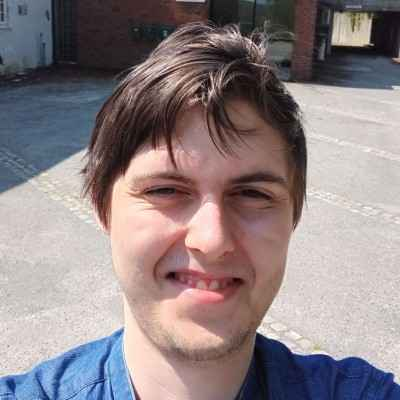
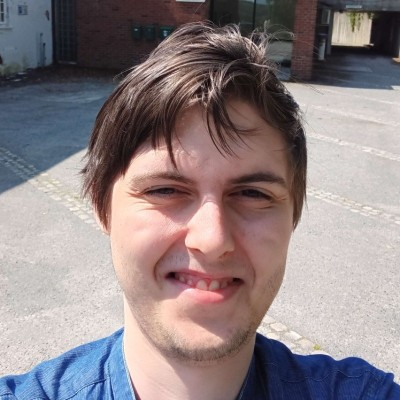
update 5
update 5

diff --git a/index.html b/index.html
@@ -20,7 +20,7 @@
         <div class="timeline_popup" id="container_tab_popup"> <!-- SET TO NONE OTHERWISE TOLD SO -->
 
             <!-- EXIT BUTTON -->
-            <button class="timeline_popup_exit" onclick="ClosePopup()">X</button>
+            <button class="timeline_popup_exit" onclick="ClosePopup(); OnClickSound()" onmouseenter="OnHoverSound()" onmousedown="OnHoldSound()">X</button>
 
             <!-- POPUP CONTENT AREA -->
 
@@ -34,7 +34,7 @@
                     <button class="timeline_popup_box"></button>
                 </div>
 
-                <!-- RIGHT SIDE: ORANGE TEXT BOX WITH SCROLLBAR -->
+                <!-- RIGHT SIDE: -->
                 <div class="timeline_popup_textbox">
                     <div class="timeline_popup_textbox_inner">
                         <div class="timeline_popup_text_content">
@@ -52,32 +52,216 @@
                 
                 <!-- LEFT SIDE: BLACK BOXES GRID -->
                 <div class="timeline_popup_boxes">
-                    <div class="timeline_popup_box_img" style="background-image: url(images/buttons/big/first_try_img_1.jpg); background-size: cover;"></div>
-                    <div class="timeline_popup_box_img" style="background-image: url(images/buttons/big/first_try_img_2.jpg); background-size: cover;"></div>
-                    <div class="timeline_popup_box_img" style="background-image: url(images/buttons/big/first_try_img_3.jpg); background-size: cover;"></div>
-                    <a href="https://steamcommunity.com/workshop/filedetails/?id=3513567869" target="_blank" class="timeline_popup_box_steam" style="background-image: url(images/buttons/big/steam_img.jpg); background-size: cover;"></a>
+                    <div class="timeline_popup_box_img" style="background-image: url(images/buttons/big/first_try_img_1.jpg); background-size: cover; background-position: center;"></div>
+                    <div class="timeline_popup_box_img" style="background-image: url(images/buttons/big/first_try_img_2.jpg); background-size: cover; background-position: center;"></div>
+                    <div class="timeline_popup_box_img" style="background-image: url(images/buttons/big/first_try_img_3.jpg); background-size: cover; background-position: center;"></div>
+                    <a onclick="OnClickSound()" onmouseenter="OnHoverSound()" onmousedown="OnHoldSound()" href="https://steamcommunity.com/workshop/filedetails/?id=3513567869" target="_blank" class="timeline_popup_box_steam" style="background-image: url(images/buttons/big/steam_img.jpg); background-size: cover; background-position: center;"></a>
                 </div>
 
-                <!-- RIGHT SIDE: ORANGE TEXT BOX WITH SCROLLBAR -->
+                <!-- RIGHT SIDE: -->
                 <div class="timeline_popup_textbox">
                     <div class="timeline_popup_textbox_inner">
                         <div class="timeline_popup_text_content">
                             <p class="timeline_popup_header">"THE FIRST TRIES"</p>
                             <div class="timeline_popup_line"></div>
+                            <p class="timeline_popup_header">2016 - 2018</p>
+
                             <p class="timeline_popup_subheader">The First Tries, we're the first batch of maps i created and released around 2018, at that time i was 15 years old.</p>
                             <p class="timeline_popup_subheader">Beginning around 2017 and ending late in 2018 during a time when i made these in my free time after school, i created 5 quite simple maps in the world builder for the Source Engine called "Hammer", that initially begun as curiouseness and shortly fell into being fun. This was about the first time when i realized how fun i found development to be, as throughout the time i made them, i found making them more enjoyable for whatever i was doing during that time at school</p>
                             <p class="timeline_popup_subheader">Unfortently however it would take me quite some time to realize that i should have put most of my work into building a career, so for must of that time i was only curious</p>
                             <p class="timeline_popup_subheader">Prior to creating these 5 maps, at which a time i saw nothing too the engine, i was making small levels with friends in Roblox based around things i played on that platform, but these we're merely early attempts</p>
+                            
                             <p class="timeline_popup_header">COMPETANSE</p>
                             <div class="timeline_popup_line"></div>
                             <ul class="timeline_popup_subheader">
                                 <li>SDK Hammer Engine</li>
                             </ul>
+
                         </div>
                     </div>
                 </div>
 
             </div>
+
+            <!-- FIRST PORTFOLIO SITE -->
+            <div class="timeline_popup_content" id="container_popup_2"> 
+                
+                <!-- LEFT SIDE: BLACK BOXES GRID -->
+                <div class="timeline_popup_boxes">
+                    <div class="timeline_popup_box_img" style="background-image: url(images/buttons/big/first_site_img_1.jpg); background-size: cover; background-position: center;"></div>
+                    <div class="timeline_popup_box_img" style="background-image: url(images/buttons/big/first_site_img_2.jpg); background-size: cover; background-position: center;"></div>
+                    <div class="timeline_popup_box_img" style="background-image: url(images/buttons/big/first_site_img_3.jpg); background-size: cover; background-position: center;"></div>
+                    <a onclick="OnClickSound()" onmouseenter="OnHoverSound()" onmousedown="OnHoldSound()" href="https://github.com/JonathanPR-Github/jonathanre_side_2023" target="_blank" class="timeline_popup_box_steam" style="background-image: url(images/buttons/big/github_img.jpg); background-size: cover; background-position: center;"></a>
+                </div>
+
+                <!-- RIGHT SIDE: -->
+                <div class="timeline_popup_textbox">
+                    <div class="timeline_popup_textbox_inner">
+                        <div class="timeline_popup_text_content">
+                            <p class="timeline_popup_header">"THE FIRST PORTFOLIO"</p>
+                            <div class="timeline_popup_line"></div>
+                            <p class="timeline_popup_header">2022 - 2023</p>
+
+                            <p class="timeline_popup_subheader">The First Portoflio i created, started around the time i coined the idea originally during my time at Folkhighschool</p>
+                            <p class="timeline_popup_subheader">However it would take me until i was at the NAV connected guidance company named "Funkweb" that i would take the initiative to build myself a portfolio site that would showcase the work i had done so far, which at the time wasn't particuarly much</p>
+                            <p class="timeline_popup_subheader">The site grapichs consisted of looking a lot like the map i was developing at the time, with a lot of yellow and stripes to match the look. While the site itself consisted of 5 tabs
+                                <ul class="timeline_popup_subheader">
+                                    <li>The Intro</li>
+                                    <li>Game Development</li>
+                                    <li>Blender</li>
+                                    <li>Video Editing</li>
+                                    <li>Grapichal Work</li>
+                                </ul>
+                            </p>
+                            <p class="timeline_popup_subheader">The site was designed to get as much info as possible for any potential people with interests, which in one sense however bloated the site too much. Behind the grapichs, there was a huge line of code that i spent over two weeks coding by hand back in 2023</p>
+                            <p class="timeline_popup_subheader">The Portfolio did help me several times to gain a job or close to one, one notable time being when i was in two interviews with Snowcastle Games</p>
+                            <p class="timeline_popup_subheader">Though after creating it, i never really updated it afterwards becouse i felt like i didn't have enough yet to showcase. It was only in 2026 when i then again made a new Portfolio</p>
+
+                            <p class="timeline_popup_header">COMPETANSE</p>
+                            <div class="timeline_popup_line"></div>
+                            <ul class="timeline_popup_subheader">
+                                <li>HTML</li>
+                                <li>CSS</li>
+                                <li>JS</li>
+                                <li>VSCode</li>
+                            </ul>
+                        
+                        </div>
+                    </div>
+                </div>
+
+            </div>
+
+            <!-- POPUP HOI4 JOHN COLLECTION -->
+            <div class="timeline_popup_content" id="container_popup_3"> 
+                
+                <!-- LEFT SIDE: BLACK BOXES GRID -->
+                <div class="timeline_popup_boxes">
+                    <div class="timeline_popup_box_img" style="background-image: url(images/buttons/big/hoi4_img_1.jpg); background-size: cover; background-position: center;"></div>
+                    <div class="timeline_popup_box_img" style="background-image: url(images/buttons/big/hoi4_img_2.jpg); background-size: cover; background-position: center;"></div>
+                    <div class="timeline_popup_box_img" style="background-image: url(images/buttons/big/hoi4_img_3.jpg); background-size: cover; background-position: center;"></div>
+                    <a onclick="OnClickSound()" onmouseenter="OnHoverSound()" onmousedown="OnHoldSound()" href="https://steamcommunity.com/workshop/filedetails/?id=3267219089" target="_blank" class="timeline_popup_box_steam" style="background-image: url(images/buttons/big/steam_img.jpg); background-size: cover; background-position: center;"></a>
+                </div>
+
+                <!-- RIGHT SIDE: -->
+                <div class="timeline_popup_textbox">
+                    <div class="timeline_popup_textbox_inner">
+                        <div class="timeline_popup_text_content">
+                            <p class="timeline_popup_header">"THE HOI4 JOHN COLLECTION"</p>
+                            <div class="timeline_popup_line"></div>
+                            <p class="timeline_popup_header">2024 - ONGOING</p>
+
+                            <p class="timeline_popup_subheader">The HOI4 JOHN Collection is a collection 31 Mods for the game "Heart's of Iron 4" that i developed within a span of a year</p>
+                            <p class="timeline_popup_subheader">Developed in the bracket language used by Paradox games, it initially started as a few grapichal mods but then gradually became more advanced mods adding functionalities to the game as time passed on</p>
+                            <p class="timeline_popup_subheader">The Most famous mod in the collection is the "Minimalistic Battle Plans" mod, that has over 1.000 Ratings, 50.000 subscribers and over 220,500 views on Steam! It really shows to tell that even the simplest things are somethimes the best</p>
+                            <p class="timeline_popup_subheader">Other notable mods in the collection is the "OWB: Special Projects" mod, adding technologies to the Total overhaul mod "Old World Blues", and "Expanded Helicopter Technologies" that adds expanded technolgies to Vanilla HOI4</p>
+                            <p class="timeline_popup_subheader">Throughout the mods development i learned a lot of coding with the Paradox Bracket language and further insight within game grapichs. The collection also eventually led me to become a developer within the Total Conversation mod "Red Dusk"</p>
+
+
+                            <p class="timeline_popup_header">COMPETANSE</p>
+                            <div class="timeline_popup_line"></div>
+                            <ul class="timeline_popup_subheader">
+                                <li>Paradox Bracket Language</li>
+                                <li>GIMP</li>
+                                <li>Inkscape</li>
+                            </ul>
+
+                        </div>
+                    </div>
+                </div>
+
+            </div>
+
+            <!-- POPUP DEATHRUN SAGA COLLECTION -->
+            <div class="timeline_popup_content" id="container_popup_4"> 
+                
+                <!-- LEFT SIDE: BLACK BOXES GRID -->
+                <div class="timeline_popup_boxes">
+                    <div class="timeline_popup_box_img"">
+                         <iframe
+                            src="https://www.youtube.com/embed/8Ks-l-wc5TM"
+                            title="YouTube video"
+                            allow="accelerometer; autoplay; clipboard-write; encrypted-media; gyroscope; picture-in-picture"
+                            allowfullscreen>
+                        </iframe>
+                    </div>
+                    <div class="timeline_popup_box_img"">
+                         <iframe
+                            src="https://www.youtube.com/embed/3duGIx3d2aE"
+                            title="YouTube video"
+                            allow="accelerometer; autoplay; clipboard-write; encrypted-media; gyroscope; picture-in-picture"
+                            allowfullscreen>
+                        </iframe>
+                    </div>
+                    <div class="timeline_popup_box_img"">
+                         <iframe
+                            src="https://www.youtube.com/embed/Q-RNo91Yfs4"
+                            title="YouTube video"
+                            allow="accelerometer; autoplay; clipboard-write; encrypted-media; gyroscope; picture-in-picture"
+                            allowfullscreen>
+                        </iframe>
+                    </div>
+                    <a onclick="OnClickSound()" onmouseenter="OnHoverSound()" onmousedown="OnHoldSound()" href="https://steamcommunity.com/workshop/filedetails/?id=3437419757" target="_blank" class="timeline_popup_box_steam" style="background-image: url(images/buttons/big/steam_img.jpg); background-size: cover; background-position: center;"></a>
+                </div>
+
+                <!-- RIGHT SIDE: -->
+                <div class="timeline_popup_textbox">
+                    <div class="timeline_popup_textbox_inner">
+                        <div class="timeline_popup_text_content">
+                            <p class="timeline_popup_header">"THE DEATHRUN SAGA COLLECTION"</p>
+                            <div class="timeline_popup_line"></div>
+                            <p class="timeline_popup_header">2018 - 2025 </p>
+
+                            <p class="timeline_popup_subheader">The Deathrun Saga Collection was a collection of 3 Deathrun maps for "Team Fortress 2" developed within the span of 2024 and 2025</p>
+                            <p class="timeline_popup_subheader">Deathrun is a community created game mode in which where one player controls traps in an obstacle course while the rest of the players attempt to survive and reach the end of the map. It emphasizes timing, player interaction, and asymmetrical gameplay design, with adventure designing heavily emphasised.</p>
+                            <p class="timeline_popup_subheader">Starting right after i finished my first attempts at making maps in 2018, i felt at the time like i wanted to try to create something that wasn't going to try to follow the offical modes, but that i wanted to expand to the custom modes made by the playerbase. It would still take me some time to go back to the Hammer as i was going back and forth with school, and with that i paused the map for a whole two years before contiuning on it</p>
+                            <p class="timeline_popup_subheader">But around 2020 i finally came around to finish what would become my first proper map with its alpha. After finishing it i contiuned to develop on it over the next 3 years, to note this was also around a time where i was simultaneously learning the engine, so it would natrually also take a bit of time for me to work things around</p>
+                            <p class="timeline_popup_subheader">During the maps development, i learnt the value of teamwork even as i was making it myself, when i was helped by various people internationally that was simiarly also making Deathrun maps, in which i could also lend help by teaching people things they didn't know. This was also when i learnt the value of playtesting and taking feedback, as whe playtested my map everytime it had a new addition to it, i would rescive valuable negative and positive feedback that would help me shape how i could improve my projects for the best</p>
+                            <p class="timeline_popup_subheader">Due to something i can only describe as a Dilemma, i had a constant worry that i had to perfect the map as much as possible, which is also why it took so long to develop. This is where i also developed a thought process a project should always be developed within a certain timeframe and never to be developed for unnecessary amounts of lenghts of time. In the end i had to set my foot down, and decide that the map had to be released, in which in 2024 Dustgrowl was finally released. From there map development would go much faster, as the next dr maps i would release would only take a few weeks</p>
+
+                            <p class="timeline_popup_header">DUSTGROWL</p>
+                            <div class="timeline_popup_line"></div>
+                            <p class="timeline_popup_header">2024</p>
+
+                            <p class="timeline_popup_subheader">Dustgrowl was designed very special, as all of the other deathrun maps i would create, they would have something unique that would make them stand out, and that included the first proper map i made</p>
+                            <p class="timeline_popup_subheader">It is made unique by that there is two whole course levels in the map, meaning that after playing 3 rounds, or winning the game it switches over the map to an entierely new course with completely different traps to change up the gameplay, and so back to the first course by the same gameplay loop. This map made it stand out between other deathrun maps, besides its obvious higher quality in vision and grapichs from other deathrun maps at the time</p>
+                            <p class="timeline_popup_subheader">Dustgrowl released to quite favorable reviews from the playtesters who had played it, as most of the maps playerbase came from those who tested the map. It was praised for both it looks and gameplay mechanics</p>
+
+                            <p class="timeline_popup_header">TIMBERCROVE</p>
+                            <div class="timeline_popup_line"></div>
+                            <p class="timeline_popup_header">2024</p>
+
+                            <p class="timeline_popup_subheader">Timercrove was designed to try to see if an open world for a deathrun map would work, with different builds building upon that idea gradually as i was making the map over the span of 2 months</p>
+                            <p class="timeline_popup_subheader">It is made unique by that the players spawn around a hut which is the main objective around a arena of obstacle courses that are explorable by completing each one of them seperatly, and then to beat each course, you must complete a puzzle by each end of the areas</p>
+                            <p class="timeline_popup_subheader">Timbercrove released to favorable reviews from the playtesters who had played it. However it was never truly added to any of the remaining servers at the time hosting the gamemode, so it was never truly praised</p>
+
+                            <p class="timeline_popup_header">SPIRALSTOVE</p>
+                            <div class="timeline_popup_line"></div>
+                            <p class="timeline_popup_header">2025</p>
+                            <p class="timeline_popup_subheader">Spiralstove was designed around a "pick your adventure" type of gameplay, with the map building upon allowing players to choose their own deathrun course, with the making of the map over the span of 2 months</p>
+                            <p class="timeline_popup_subheader">It is made unique by that a singular player at the start of the match gets to pick out a course of 3 portals infront of them, that eventually leads them to playing a course with completely unique themes to them</p>
+                            <p class="timeline_popup_subheader">Spiralstove released to favorable reviews from the playtesters who had played it and both the players playing it.</p>
+
+                            <p class="timeline_popup_header">COMPETANSE</p>
+                            <div class="timeline_popup_line"></div>
+                            <ul class="timeline_popup_subheader">
+                                <li>SDK Hammer Engine</li>
+                                <li>Vscript</li>
+                                <li>GIMP</li>
+                                <li>Inkscape</li>
+                                <li>VSCode</li>
+                                <li>DaVinci Resolve</li>
+                                <li>Discord</li>
+                            </ul>
+
+                        </div>
+                    </div>
+                </div>
+
+            </div>
+
+
+
 
 
 
@@ -91,7 +275,7 @@
     <div class="container_header_top">
         <div class="header_top">
             <button onclick="ShowTab_1(); OnClickSound()" onmouseenter="OnHoverSound()" onmousedown="OnHoldSound()"    class="header_top_button"> <p class="header_top_button_text">INTRO</p> </button>
-            <button onclick="ShowTab_2(); OnClickSound()" onmouseenter="OnHoverSound()"     class="header_top_button"> <p class="header_top_button_text">GAME DEVELOPMENT</p> </button>
+            <button onclick="ShowTab_2(); OnClickSound()" onmouseenter="OnHoverSound()" onmousedown="OnHoldSound()"    class="header_top_button"> <p class="header_top_button_text">GAME DEVELOPMENT</p> </button>
         </div>
     </div>
 
@@ -129,11 +313,12 @@
     <div class="container_about_me_pl">
         <div class="about_me_picture"></div>
         <div class="about_me_links">
-            <a href="https://no.linkedin.com/in/jonathan-erik-reppen-0915642a0/en?trk=people-guest_people_search-card" target="_blank" class="contact_button_1"     onclick="OnClickSound()" onmouseenter="OnHoverSound()"></a>
-            <a href="mailto: [email redacted]" target="_blank" class="contact_button_2"  onclick="OnClickSound()" onmouseenter="OnHoverSound()"></a>
-            <a href="https://github.com/JonathanPR-Github?tab=repositories" target="_blank" class="contact_button_3"    onclick="OnClickSound()" onmouseenter="OnHoverSound()"></a>
-            <a href="https://www.youtube.com/@jonathnpr5934/videos" target="_blank" class="contact_button_4"    onclick="OnClickSound()" onmouseenter="OnHoverSound()"></a>
+            <a href="https://no.linkedin.com/in/jonathan-erik-reppen-0915642a0/en?trk=people-guest_people_search-card" target="_blank" class="contact_button_1"     onclick="OnClickSound()" onmouseenter="OnHoverSound()" onmousedown="OnHoldSound()"></a>
+            <a href="mailto: [email redacted]" target="_blank" class="contact_button_2"  onclick="OnClickSound()" onmouseenter="OnHoverSound()" onmousedown="OnHoldSound()"></a>
+            <a href="https://github.com/JonathanPR-Github?tab=repositories" target="_blank" class="contact_button_3"    onclick="OnClickSound()" onmouseenter="OnHoverSound()" onmousedown="OnHoldSound()"></a>
+            <a href="https://www.youtube.com/@jonathnpr5934/videos" target="_blank" class="contact_button_4"    onclick="OnClickSound()" onmouseenter="OnHoverSound()" onmousedown="OnHoldSound()"></a>
         </div>
+
     </div>
 
     </div> 
@@ -180,9 +365,9 @@
             <div class="timeline-line-and-boxes">
                 <div class="timeline-line"></div>
                 <div class="container_timeline_box">
-                    <button onclick="OpenPopup(); popup_1();" class="timeline_box"; style="background-image: url(images/buttons/small/timeline_box_1.jpg); background-size: cover;"></button>
-                    <div class="timeline_box"></div>
-                    <div class="timeline_box"></div>
+                    <button onclick="OpenPopup(); popup_1(); OnClickSound()" onmouseenter="OnHoverSound()" onmousedown="OnHoldSound()" class="timeline_box"; style="background-image: url(images/buttons/small/timeline_box_1.jpg); background-size: cover;"></button>
+                    <button onclick="OpenPopup(); popup_3(); OnClickSound()" onmouseenter="OnHoverSound()" onmousedown="OnHoldSound()" class="timeline_box"; style="background-image: url(images/buttons/small/timeline_box_3.jpg); background-size: cover;"></button>
+                    <button onclick="OpenPopup(); popup_4(); OnClickSound()" onmouseenter="OnHoverSound()" onmousedown="OnHoldSound()" class="timeline_box"; style="background-image: url(images/buttons/small/timeline_box_4.jpg); background-size: cover; background-position: center;"></button>
                     <div class="timeline_box"></div>
                     <div class="timeline_box"></div>
                     <div class="timeline_box"></div>
@@ -214,7 +399,7 @@
                 <div class="timeline-line"></div>
 
                 <div class="container_timeline_box">
-                    <div class="timeline_box"></div>
+                    <button onclick="OpenPopup(); popup_2(); OnClickSound()" onmouseenter="OnHoverSound()" onmousedown="OnHoldSound()" class="timeline_box"; style="background-image: url(images/buttons/small/timeline_box_2.jpg); background-size: cover;"></button>
              
                 </div>
             </div>

diff --git a/java.js b/java.js
@@ -20,10 +20,30 @@ function ClosePopup() {   // NOTAT: Leg til alle videre popup specific meldinger
 
   // Timeline functions for Popup
   document.getElementById('container_popup_1').style.display = 'none';
+  document.getElementById('container_popup_2').style.display = 'none';
+  document.getElementById('container_popup_3').style.display = 'none';
+  document.getElementById('container_popup_4').style.display = 'none';
+
+  // Stop & reset all YouTube videos inside the popup
+  const youtubeIframes = document.querySelectorAll('#container_tab_popup iframe[src*="youtube.com"], #container_tab_popup iframe[src*="youtu.be"]');
+  youtubeIframes.forEach(iframe => {
+    const src = iframe.src;
+    iframe.src = '';      // unload the player
+    iframe.src = src;     // reload it in a paused/reset state
+  });
 }
 
 function popup_1() {
   document.getElementById('container_popup_1').style.display = 'flex';
+}
+function popup_2() {
+  document.getElementById('container_popup_2').style.display = 'flex';
+}
+function popup_3() {
+  document.getElementById('container_popup_3').style.display = 'flex';
+}
+function popup_4() {
+  document.getElementById('container_popup_4').style.display = 'flex';
 }
 
 /// Button Sounds

diff --git a/visual.css b/visual.css
@@ -163,6 +163,7 @@ body {
     background-image: url(images/profile_picture.jpg);
     background-size: cover;
     box-shadow: black 0vw 0vw 5vw;
+    background-position: center;
 }
 
 .about_me_links {
@@ -462,7 +463,10 @@ body.popup_active .container_header_top {
     gap: 3%;
 }
 
-#container_popup_1 {
+#container_popup_1,
+#container_popup_2,
+#container_popup_3,
+#container_popup_4 {
     display: none;
 }
 
@@ -512,11 +516,20 @@ body.popup_active .container_header_top {
 }
 
 .timeline_popup_box_img {
+    position: relative;
     width: 48%;
     height: 45%;
     background-color: wheat;
 
     border: 5px solid black ;
+}
+
+.timeline_popup_box_img iframe {
+    width: 100%;
+    height: 100%;
+    border: 0;
+    position: absolute;
+    inset: 0;
 }
 
 /* POPUP RIGHT SIDE: ORANGE TEXT BOX */
@@ -568,7 +581,7 @@ body.popup_active .container_header_top {
 
 .timeline_popup_header {
     color: wheat;
-    font-size: 2vw;
+    font-size: 1.6vw;
     font-weight: 900;
     font-family: Impact, 'Arial Black', sans-serif;
     text-transform: uppercase;
@@ -586,7 +599,7 @@ body.popup_active .container_header_top {
 
 .timeline_popup_subheader {
     color: wheat;
-    font-size: 1.3vw;
+    font-size: 1.1vw;
     margin-bottom: 5%;
 
 }